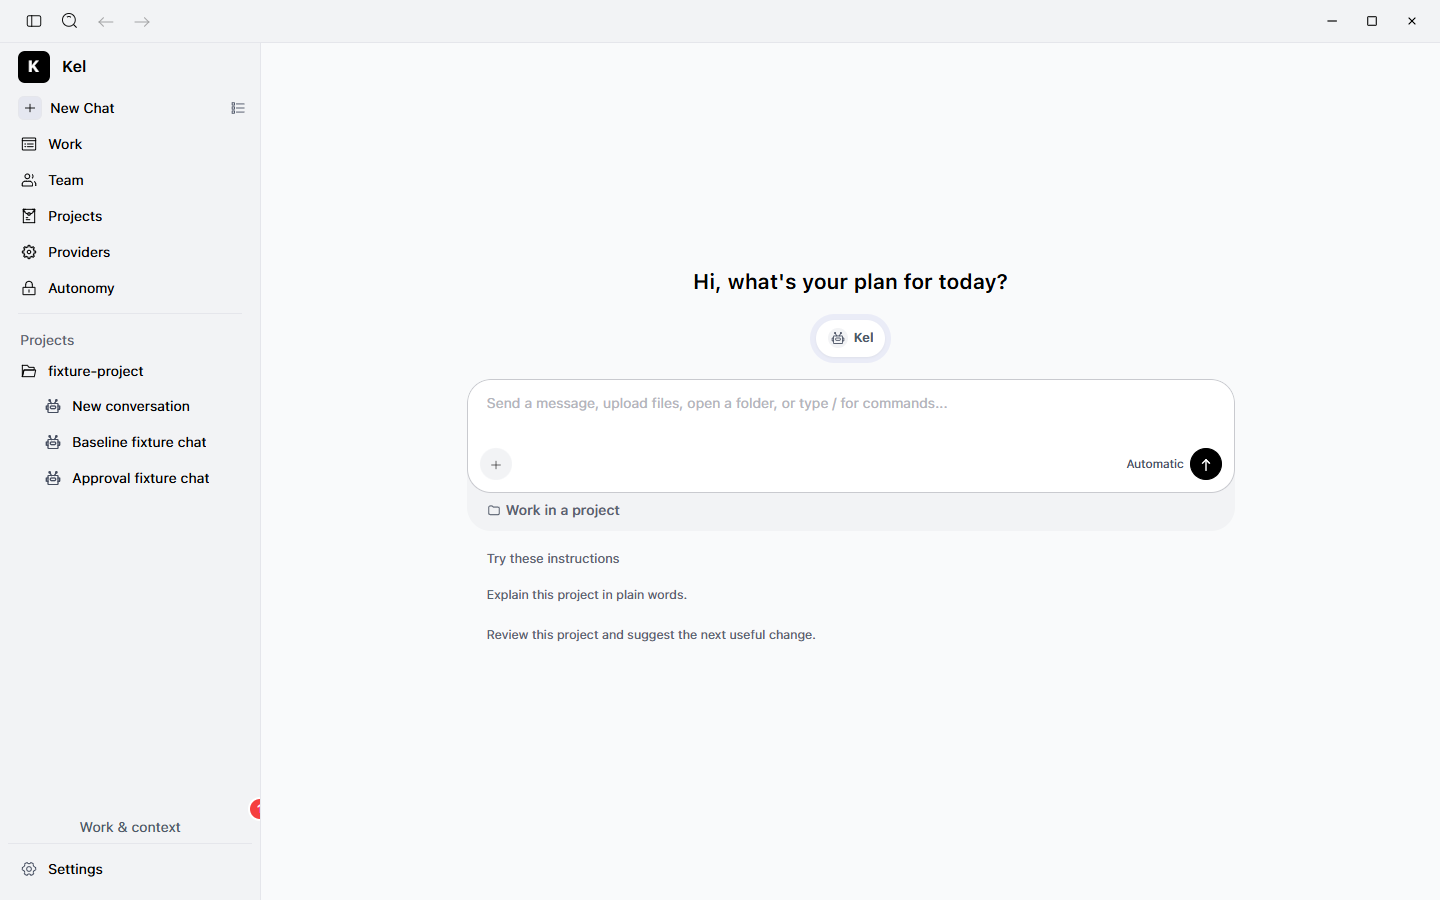
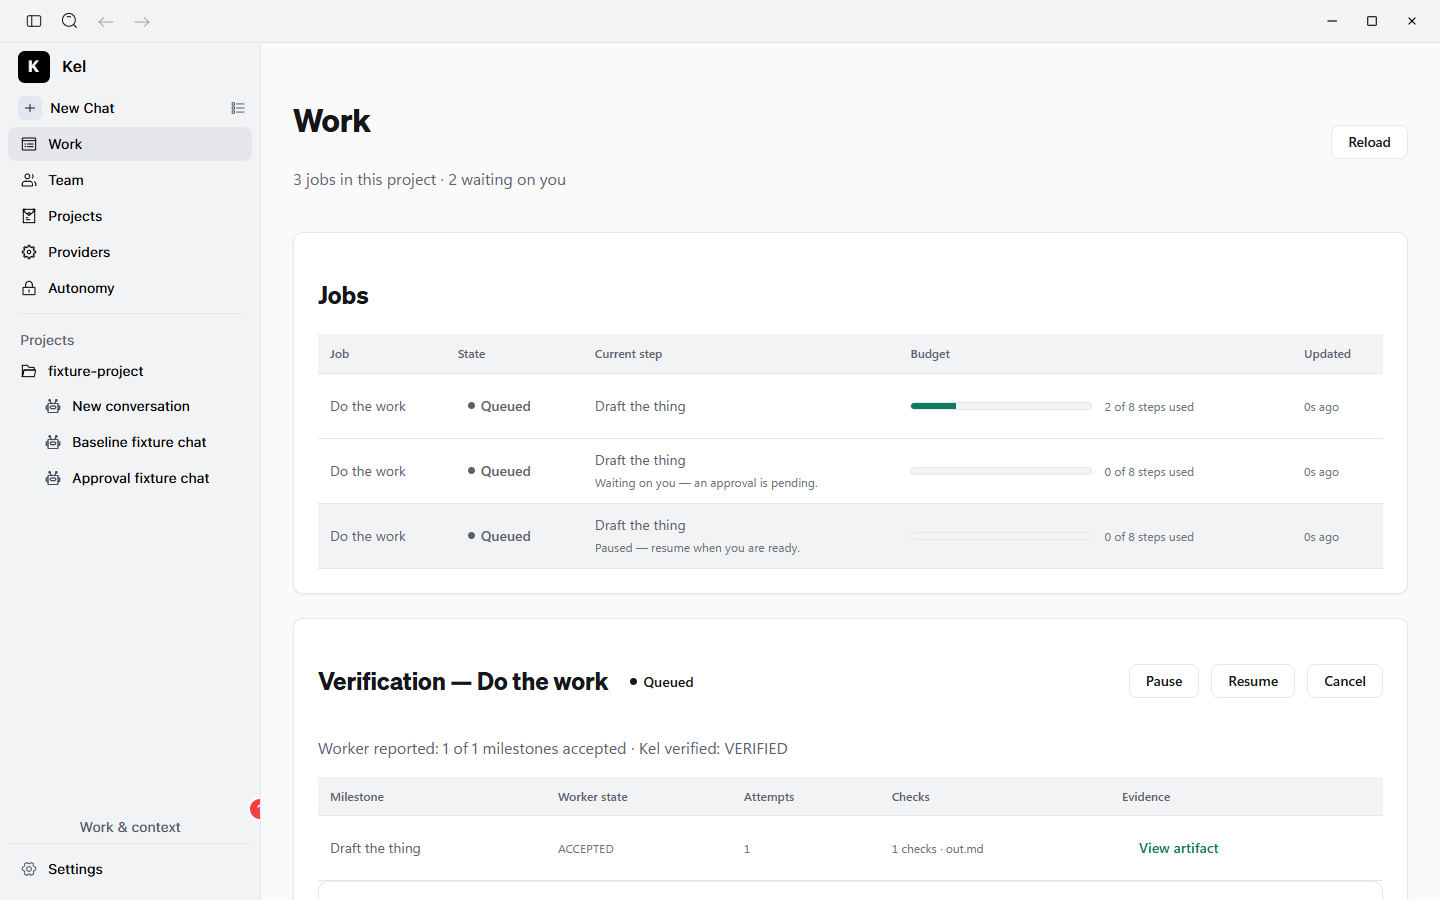
fix(v1.4-gate7-onboard-gate): first-run gate is flag-only and verified end-to-end (fresh -> onboarding -> finish -> /work; second launch skipped; migrated profile offered once and dismissed, deviation recorded)

diff --git a/desktop/packages/desktop/src/renderer/components/layout/Layout.tsx b/desktop/packages/desktop/src/renderer/components/layout/Layout.tsx
@@ -16,7 +16,6 @@ import { useTranslation } from 'react-i18next';
 import { Outlet, useLocation, useNavigate } from 'react-router-dom';
 import { setGlobalNavigate } from '@/renderer/utils/navigation';
 import KelCommandPalette from '@renderer/components/kel/KelCommandPalette';
-import { kelState } from '@renderer/components/kel/kelApi';
 import { configService } from '@/common/config/configService';
 import { usePreviewContext } from '@renderer/pages/conversation/Preview';
 import { ProjectPanelHost } from '@renderer/components/layout/ProjectPanelHost';
@@ -142,30 +141,24 @@ const Layout: React.FC<{
   useEffect(() => {
     let cancelled = false;
     void (async () => {
-      // Read the flag on its own: an unknown/unreadable key must mean "not completed yet", never
-      // "skip the offer" (a throwing getter previously swallowed the whole check).
+      // Flag-only rule, and the flag is read from the same store the onboarding flow writes to
+      // (`configService`), never from the migration's local config file.
+      //
+      // Why not "no conversations ⇒ fresh": the donor keeps a default conversation even on a brand-new
+      // profile, so a conversation count can never distinguish a fresh install (measured: a new data root
+      // still renders the guid shell with one conversation row). Consequence, recorded rather than
+      // hidden: an install migrated from V1.3 sees the flow once and dismisses it with "Skip setup",
+      // which is one click; a stricter migrated-install rule needs a renderer-readable "previous install"
+      // signal and is carried as an open item.
+      await configService.initialize().catch(() => undefined);
+      if (cancelled) return;
       let completed = false;
       try {
         completed = Boolean(configService.get('kel.onboardingCompleted_v1'));
       } catch {
         completed = false;
       }
-      if (completed) return;
-      // The engine can still be starting on a cold launch, so give the state read a few attempts.
-      for (let attempt = 0; attempt < 4 && !cancelled; attempt += 1) {
-        try {
-          const state = await kelState();
-          if (cancelled) return;
-          const conversations = (state as { conversations?: unknown[] }).conversations ?? [];
-          if (!conversations.length) {
-            navigate('/onboarding', { replace: true });
-            return;
-          }
-          return;
-        } catch {
-          await new Promise((resolve) => setTimeout(resolve, 1500));
-        }
-      }
+      if (!completed) navigate('/onboarding', { replace: true });
     })();
     return () => {
       cancelled = true;
